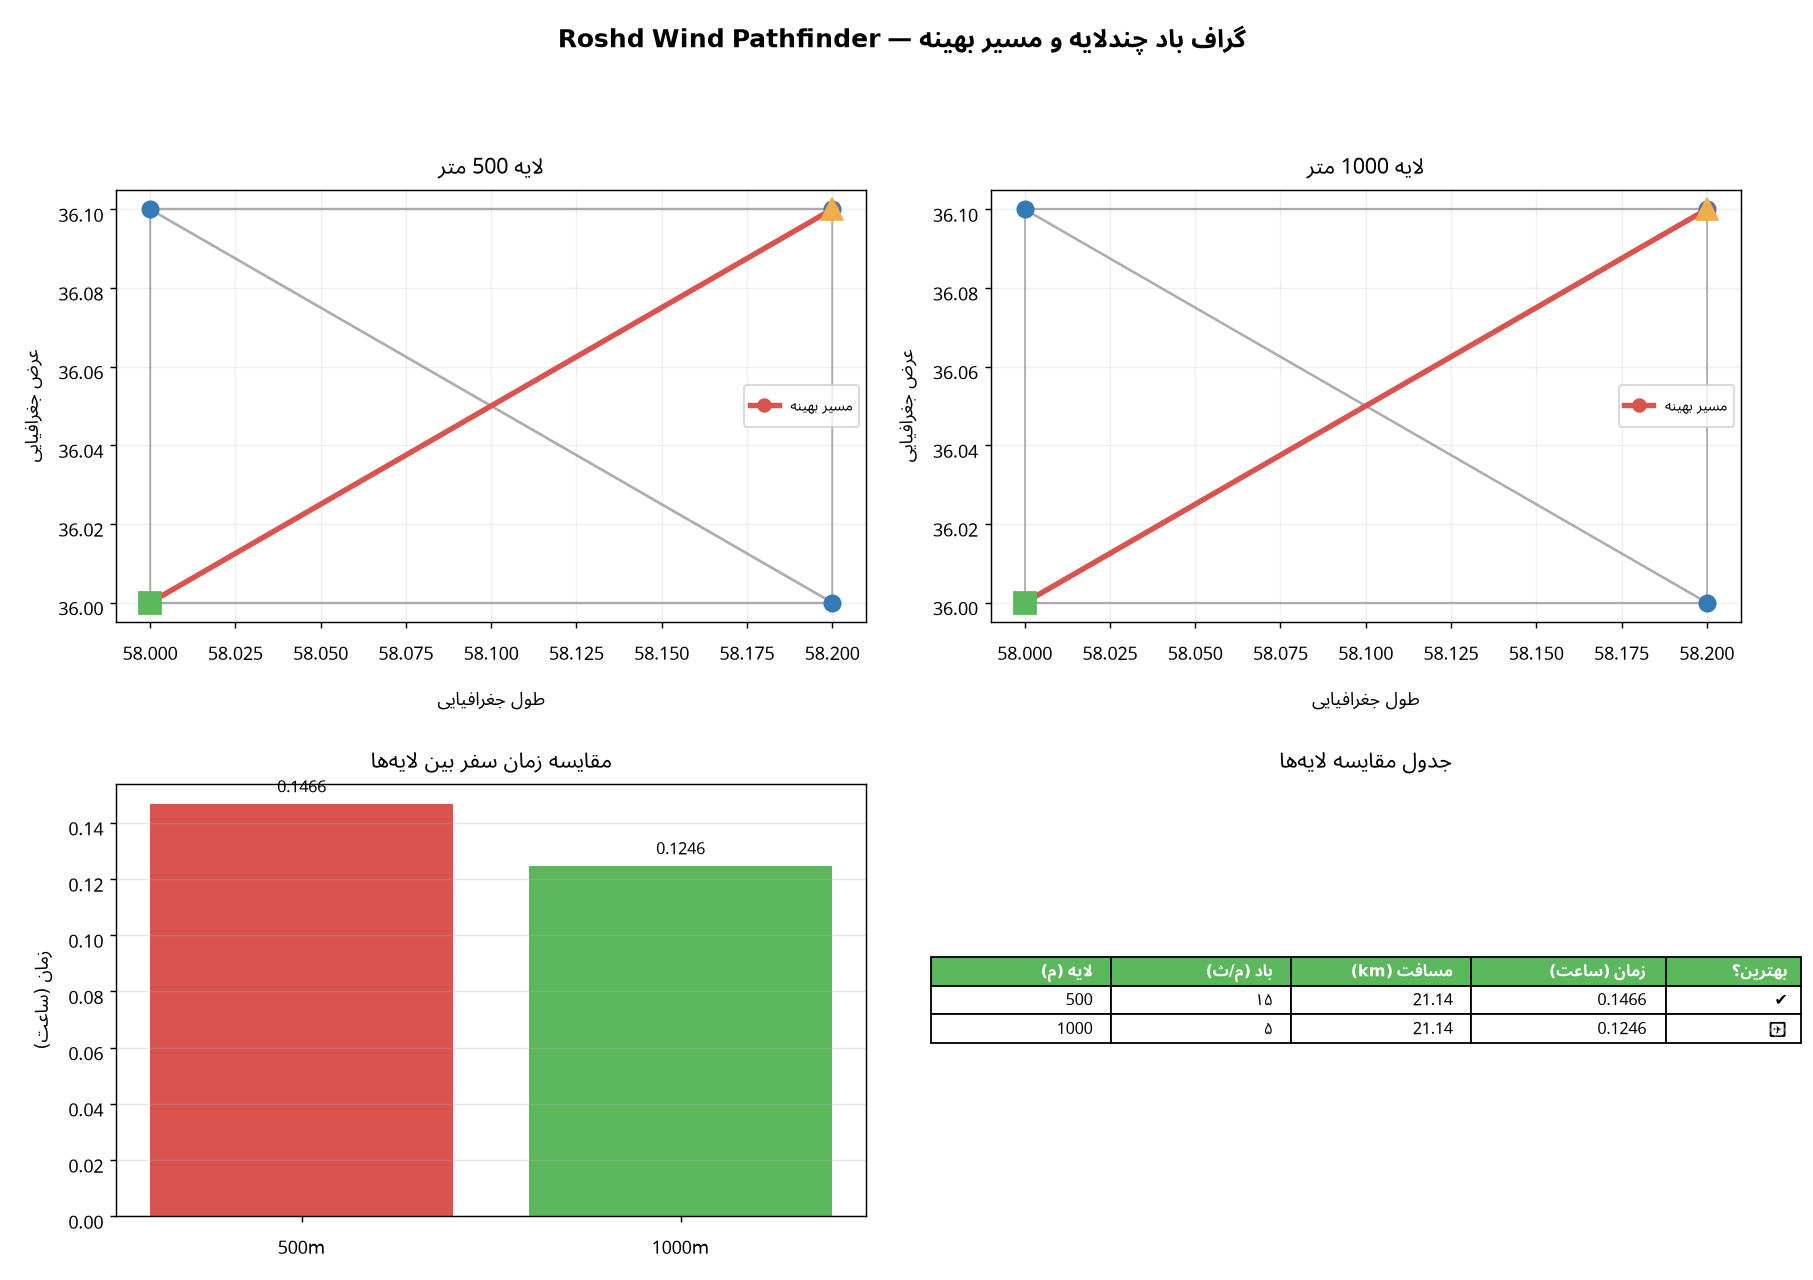
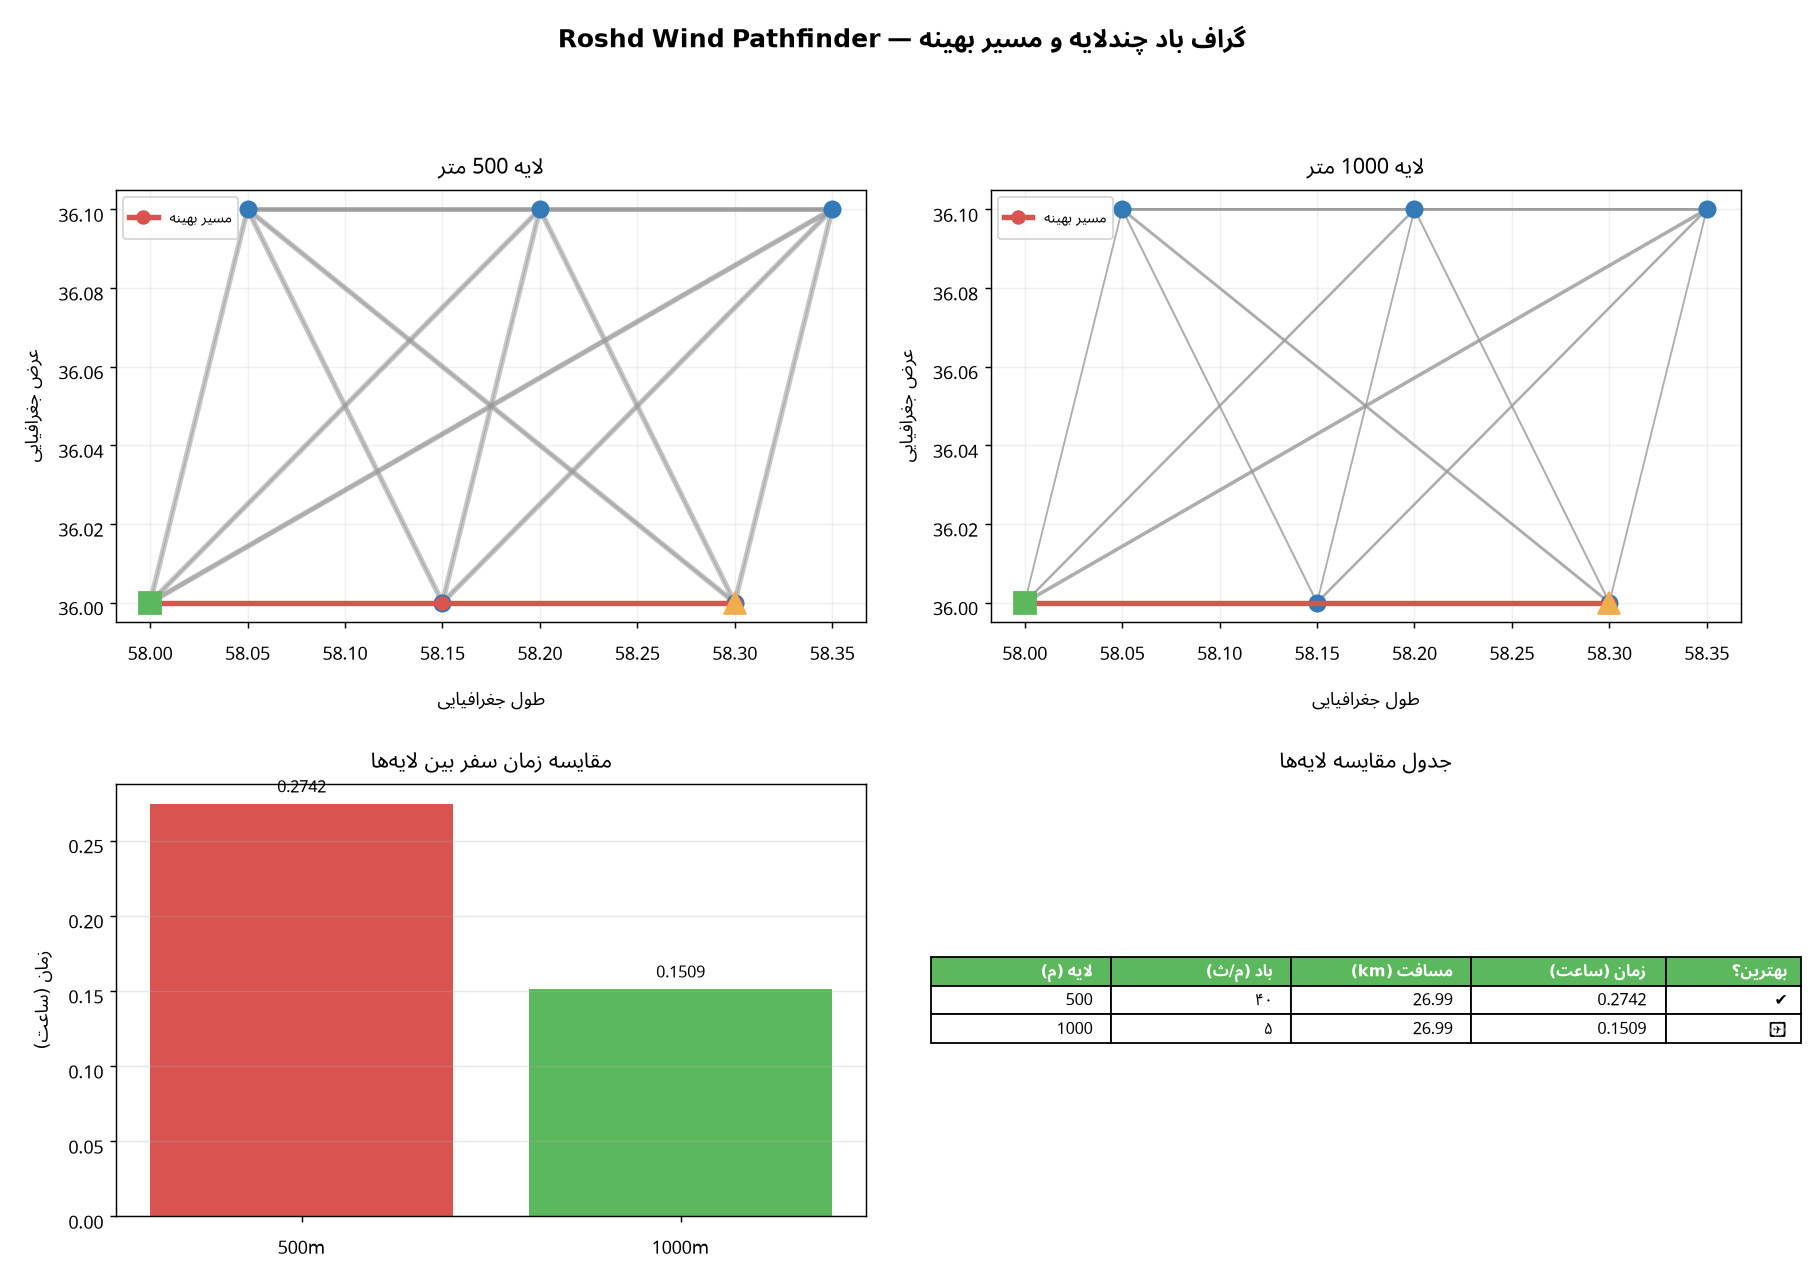
visualization: مسیرهای متفاوت در لایهها — باد شمالی مسیر انحرافی در ۵۰۰م

diff --git a/scripts/visualize_multi_layer_graph.py b/scripts/visualize_multi_layer_graph.py
@@ -31,107 +31,6 @@ OUTPUT_PATH = Path(__file__).resolve().parent.parent / "docs" / "assets"
 OUTPUT_FILE = OUTPUT_PATH / "multi_layer_graph_visualization.png"
 
 
-def main() -> None:
-    """ساخت تصویرسازی ۲×۲: گرافها + مسیر بهینه."""
-    # --- داده چندلایه واقعی (باد از شمال = رو-به-رو برای حرکت شمالشرقی) ---
-    rows = []
-    coords = [(36.0, 58.0), (36.0, 58.2), (36.1, 58.0), (36.1, 58.2)]
-    # لایه ۵۰۰م: باد ۱۵ م/ث؛ لایه ۱۰۰۰م: باد ۵ م/ث
-    for alt, speed in [(500.0, 15.0), (1000.0, 5.0)]:
-        for lat, lon in coords:
-            rows.append(
-                {
-                    "altitude": alt,
-                    "lat": lat,
-                    "lon": lon,
-                    "wind_speed": speed,
-                    "wind_direction": 0.0,
-                }
-            )
-    df = pd.DataFrame(rows)
-
-    multi = MultiLayerWindGraph.build_from_dataframe(df)
-    router = WindRouter(multi, criterion="time")
-
-    origin = (36.0, 58.0)
-    dest = (36.1, 58.2)
-    comp = router.compare_layers(origin, dest)
-
-    fig, axes = plt.subplots(2, 2, figsize=(14, 10))
-
-    # --- ۱و۲) گراف هر لایه ---
-    for idx, alt in enumerate(multi.available_layers):
-        ax = axes[0][idx]
-        graph = multi.get_layer(alt)
-        _draw_layer(ax, graph, comp.results[alt], title=f"لایه {alt:.0f} متر")
-
-    # --- ۳) مقایسه زمان سفر ---
-    ax3 = axes[1][0]
-    alts = sorted(comp.results.keys())
-    times = [comp.results[a].total_cost for a in alts]
-    bars = ax3.bar(
-        [f"{a:.0f}m" for a in alts],
-        times,
-        color=["#d9534f" if a != comp.best_altitude else "#5cb85c" for a in alts],
-    )
-    ax3.set_title("مقایسه زمان سفر بین لایهها")
-    ax3.set_ylabel("زمان (ساعت)")
-    ax3.grid(axis="y", alpha=0.3)
-    for bar, t in zip(bars, times):
-        ax3.text(
-            bar.get_x() + bar.get_width() / 2,
-            bar.get_height(),
-            f"{t:.4f}",
-            ha="center",
-            va="bottom",
-            fontsize=9,
-        )
-
-    # --- ۴) جدول مقایسه ---
-    ax4 = axes[1][1]
-    ax4.axis("off")
-    table_data = [
-        ["لایه (م)", "باد (م/ث)", "مسافت (km)", "زمان (ساعت)", "بهترین؟"]
-    ]
-    for a in alts:
-        r = comp.results[a]
-        speed = "۱۵" if a == 500.0 else "۵"
-        table_data.append(
-            [
-                f"{a:.0f}",
-                speed,
-                f"{r.total_distance_km:.2f}",
-                f"{r.total_cost:.4f}",
-                "✅" if a == comp.best_altitude else "✔",
-            ]
-        )
-    table = ax4.table(
-        cellText=table_data,
-        loc="center",
-        colWidths=[0.24, 0.24, 0.24, 0.26, 0.18],
-    )
-    table.auto_set_font_size(False)
-    table.set_fontsize(9)
-    table.scale(1.0, 1.4)
-    for (row, col), cell in table.get_celld().items():
-        if row == 0:
-            cell.set_facecolor("#5cb85c")
-            cell.set_text_props(color="white", fontweight="bold")
-    ax4.set_title("جدول مقایسه لایهها")
-
-    fig.suptitle(
-        "گراف باد چندلایه و مسیر بهینه — Roshd Wind Pathfinder",
-        fontsize=14,
-        fontweight="bold",
-    )
-    fig.tight_layout(rect=[0, 0, 1, 0.95])
-
-    OUTPUT_PATH.mkdir(parents=True, exist_ok=True)
-    fig.savefig(OUTPUT_FILE, dpi=130, bbox_inches="tight")
-    plt.close(fig)
-    print(f"تصویر ذخیره شد: {OUTPUT_FILE}")
-
-
 def _draw_layer(
     ax: plt.Axes,
     graph,
@@ -159,7 +58,7 @@ def _draw_layer(
         )
 
     # گرهها
-    for nid, node in graph.nodes.items():
+    for _nid, node in graph.nodes.items():
         ax.plot(node.lon, node.lat, "o", color="#337ab7", markersize=9, zorder=3)
 
     # مسیر بهینه
@@ -188,8 +87,127 @@ def _draw_layer(
     ax.legend(loc="best", fontsize=8)
 
 
-origin = (36.0, 58.0)
-dest = (36.1, 58.2)
+origin = (36.00, 58.00)
+dest = (36.00, 58.30)
+
+
+def main() -> None:
+    """ساخت تصویرسازی ۲×۲: گرافها + مسیر بهینه."""
+    # --- داده چندلایه: باد متفاوت → مسیرهای متفاوت در لایهها ---
+    # شبکه ۶ نقطهای:
+    # لایه ۵۰۰م: باد شدید از شمال (۴۰ م/ث) = رو-به-رو برای حرکت شرقی
+    #   → مسیر مستقیم گران است، بهترین مسیر از گره میانی B میگذرد
+    # لایه ۱۰۰۰م: باد ملایم از جنوب (۵ م/ث) = باد پشت برای حرکت شرقی
+    #   → مسیر مستقیم بهترین است
+    pts = [
+        (36.00, 58.00),   # A مبدأ
+        (36.00, 58.15),   # B میانی
+        (36.10, 58.05),   # C
+        (36.00, 58.30),   # D مقصد
+        (36.10, 58.20),   # C2
+        (36.10, 58.35),   # E
+    ]
+    rows = []
+    for lat, lon in pts:
+        rows.append(
+            {
+                "altitude": 500.0,
+                "lat": lat,
+                "lon": lon,
+                "wind_speed": 40.0,
+                "wind_direction": 0.0,
+            }
+        )
+    for lat, lon in pts:
+        rows.append(
+            {
+                "altitude": 1000.0,
+                "lat": lat,
+                "lon": lon,
+                "wind_speed": 5.0,
+                "wind_direction": 180.0,
+            }
+        )
+    df = pd.DataFrame(rows)
+
+    multi = MultiLayerWindGraph.build_from_dataframe(df, max_edge_distance_km=300.0)
+    router = WindRouter(multi, criterion="time")
+
+    comp = router.compare_layers(origin, dest)
+
+    fig, axes = plt.subplots(2, 2, figsize=(14, 10))
+
+    # --- ۱و۲) گراف هر لایه ---
+    for idx, alt in enumerate(multi.available_layers):
+        ax = axes[0][idx]
+        graph = multi.get_layer(alt)
+        _draw_layer(ax, graph, comp.results[alt], title=f"لایه {alt:.0f} متر")
+
+    # --- ۳) مقایسه زمان سفر ---
+    ax3 = axes[1][0]
+    alts = sorted(comp.results.keys())
+    times = [comp.results[a].total_cost for a in alts]
+    bars = ax3.bar(
+        [f"{a:.0f}m" for a in alts],
+        times,
+        color=["#d9534f" if a != comp.best_altitude else "#5cb85c" for a in alts],
+    )
+    ax3.set_title("مقایسه زمان سفر بین لایهها")
+    ax3.set_ylabel("زمان (ساعت)")
+    ax3.grid(axis="y", alpha=0.3)
+    for bar, t in zip(bars, times, strict=True):
+        ax3.text(
+            bar.get_x() + bar.get_width() / 2,
+            bar.get_height(),
+            f"{t:.4f}",
+            ha="center",
+            va="bottom",
+            fontsize=9,
+        )
+
+    # --- ۴) جدول مقایسه ---
+    ax4 = axes[1][1]
+    ax4.axis("off")
+    table_data = [
+        ["لایه (م)", "باد (م/ث)", "مسافت (km)", "زمان (ساعت)", "بهترین؟"]
+    ]
+    for a in alts:
+        r = comp.results[a]
+        speed = "۴۰" if a == 500.0 else "۵"
+        table_data.append(
+            [
+                f"{a:.0f}",
+                speed,
+                f"{r.total_distance_km:.2f}",
+                f"{r.total_cost:.4f}",
+                "✅" if a == comp.best_altitude else "✔",
+            ]
+        )
+    table = ax4.table(
+        cellText=table_data,
+        loc="center",
+        colWidths=[0.24, 0.24, 0.24, 0.26, 0.18],
+    )
+    table.auto_set_font_size(False)
+    table.set_fontsize(9)
+    table.scale(1.0, 1.4)
+    for (row, _col), cell in table.get_celld().items():
+        if row == 0:
+            cell.set_facecolor("#5cb85c")
+            cell.set_text_props(color="white", fontweight="bold")
+    ax4.set_title("جدول مقایسه لایهها")
+
+    fig.suptitle(
+        "گراف باد چندلایه و مسیر بهینه — Roshd Wind Pathfinder",
+        fontsize=14,
+        fontweight="bold",
+    )
+    fig.tight_layout(rect=[0, 0, 1, 0.95])
+
+    OUTPUT_PATH.mkdir(parents=True, exist_ok=True)
+    fig.savefig(OUTPUT_FILE, dpi=130, bbox_inches="tight")
+    plt.close(fig)
+    print(f"تصویر ذخیره شد: {OUTPUT_FILE}")
 
 
 if __name__ == "__main__":
